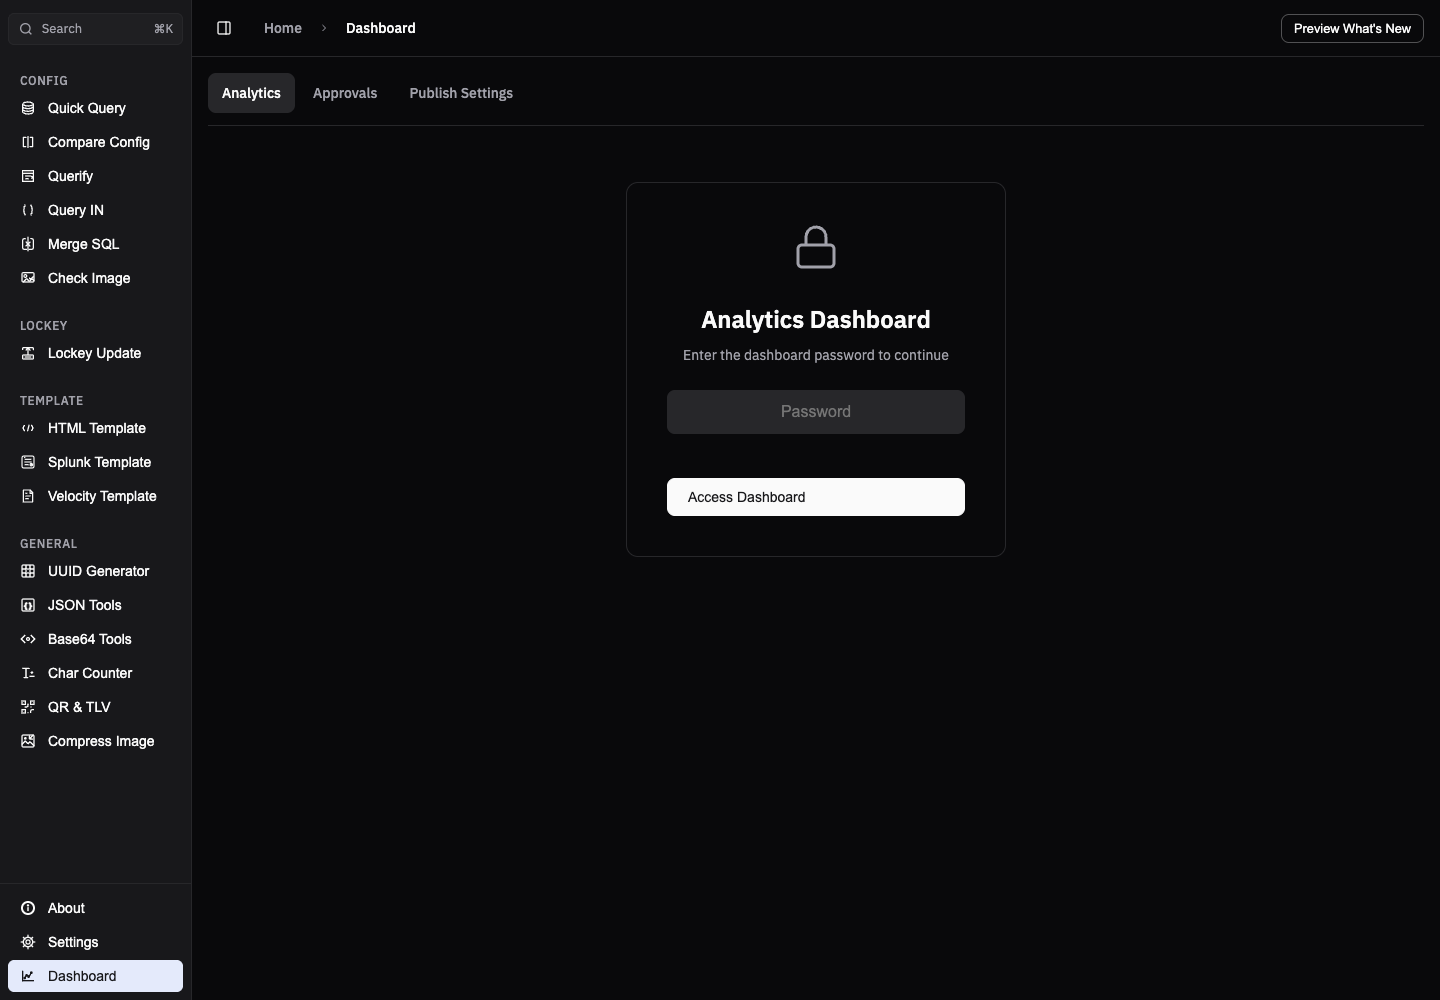
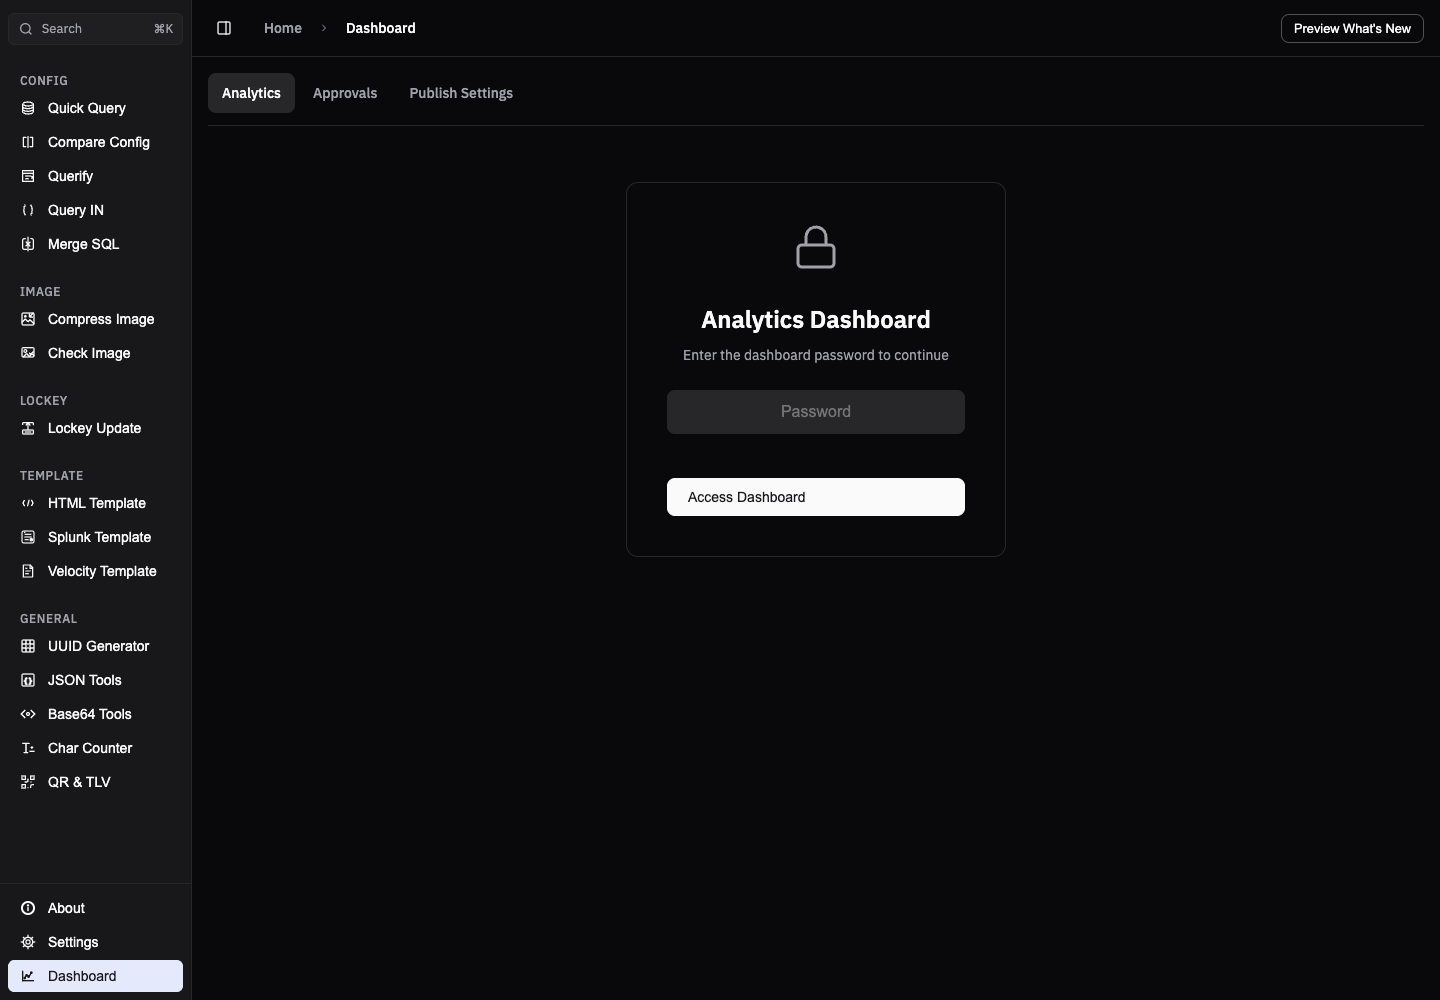
Show device attribution limits in lifetime usage reports

Changed region(s): [[0.0, 0.279, 0.125, 0.806]]

diff --git a/backend-workers/tests/dashboard-device-exclusions.test.js b/backend-workers/tests/dashboard-device-exclusions.test.js
@@ -26,14 +26,22 @@ describe("Dashboard device exclusions", () => {
   it("filters every built-in report before aggregation without dropping the user's other device", async () => {
     const sqlite = new DatabaseSync(":memory:");
     const migrations = new URL("../migrations/", import.meta.url);
-    for (const name of readdirSync(migrations).filter((name) => name.endsWith(".sql")).sort()) {
+    for (const name of readdirSync(migrations)
+      .filter((name) => name.endsWith(".sql"))
+      .sort()) {
       sqlite.exec(readFileSync(new URL(name, migrations), "utf8"));
     }
     const now = new Date().toISOString();
     // Device-level ledger rows, with no frozen baseline: both devices belong to one user.
-    sqlite.prepare("INSERT INTO tool_usage (event_id, user_email, device_id, tool_id, action, properties, source, created_time) VALUES (?, ?, ?, ?, ?, ?, ?, ?)")
+    sqlite
+      .prepare(
+        "INSERT INTO tool_usage (event_id, user_email, device_id, tool_id, action, properties, source, created_time) VALUES (?, ?, ?, ?, ?, ?, ?, ?)",
+      )
       .run("dev-use", "same@example.test", devId, "json-tools", "prettify", "{}", "client", now);
-    sqlite.prepare("INSERT INTO tool_usage (event_id, user_email, device_id, tool_id, action, properties, source, created_time) VALUES (?, ?, ?, ?, ?, ?, ?, ?)")
+    sqlite
+      .prepare(
+        "INSERT INTO tool_usage (event_id, user_email, device_id, tool_id, action, properties, source, created_time) VALUES (?, ?, ?, ?, ?, ?, ?, ?)",
+      )
       .run("real-use", "same@example.test", "real-device", "json-tools", "prettify", "{}", "client", now);
     const env = {
       ANALYTICS_DASHBOARD_PASSWORD: "testpassword123",
@@ -41,19 +49,34 @@ describe("Dashboard device exclusions", () => {
       adtools: { get: async () => null, put: async () => {}, delete: async () => {} },
     };
     try {
-      const auth = await worker.fetch(new Request("http://localhost/dashboard/verify", {
-        method: "POST", headers: { "Content-Type": "application/json" }, body: JSON.stringify({ password: "testpassword123" }),
-      }), env);
+      const auth = await worker.fetch(
+        new Request("http://localhost/dashboard/verify", {
+          method: "POST",
+          headers: { "Content-Type": "application/json" },
+          body: JSON.stringify({ password: "testpassword123" }),
+        }),
+        env,
+      );
       const { token } = await auth.json();
       const headers = { "Content-Type": "application/json", Authorization: `Bearer ${token}` };
-      const query = async (target, tabId, extra = {}) => (await worker.fetch(new Request("http://localhost/dashboard/query", {
-        method: "POST", headers, body: JSON.stringify({ tabId, range: "all", page: 1, pageSize: 1, ...extra }),
-      }), target)).json();
+      const query = async (target, tabId, extra = {}) =>
+        (
+          await worker.fetch(
+            new Request("http://localhost/dashboard/query", {
+              method: "POST",
+              headers,
+              body: JSON.stringify({ tabId, range: "all", page: 1, pageSize: 1, ...extra }),
+            }),
+            target,
+          )
+        ).json();
       const unfiltered = await query(env, "overview");
       expect(unfiltered.data.find((row) => row.metric === "Successful tool uses").value).toBe("2");
       const filteredEnv = { ...env, ANALYTICS_EXCLUDED_DEVICE_IDS: devId };
       const overview = await query(filteredEnv, "overview");
       expect(overview.data.find((row) => row.metric === "Successful tool uses").value).toBe("1");
+      const lifetime = await query(filteredEnv, "tools");
+      expect(lifetime.warning).toContain("Legacy lifetime totals");
       const daily = await query(filteredEnv, "daily");
       expect(daily.data).toHaveLength(1);
       expect(daily.pagination.hasMore).toBe(false);

diff --git a/backend-workers/src/utils/dashboardDevices.js b/backend-workers/src/utils/dashboardDevices.js
@@ -1,9 +1,25 @@
-const DEVICE_TABLES = ["device", "device_usage", "get_device_usage", "tool_usage", "usage_log", "events", "error_events", "improvement_feedback"];
+const DEVICE_TABLES = [
+  "device",
+  "device_usage",
+  "get_device_usage",
+  "tool_usage",
+  "usage_log",
+  "events",
+  "error_events",
+  "improvement_feedback",
+];
 const scopedDatabases = new WeakMap();
 
 export function scopeDashboardDevices(env) {
-  const ids = [...new Set(String(env.ANALYTICS_EXCLUDED_DEVICE_IDS || "").split(",").map((id) => id.trim()).filter(Boolean))].sort();
-  if (ids.length > 100 || ids.some((id) => id.length > 120 || /[\x00-\x1f]/.test(id))) {
+  const ids = [
+    ...new Set(
+      String(env.ANALYTICS_EXCLUDED_DEVICE_IDS || "")
+        .split(",")
+        .map((id) => id.trim())
+        .filter(Boolean),
+    ),
+  ].sort();
+  if (ids.length > 100 || ids.some((id) => id.length > 120 || Array.from(id).some((character) => character.charCodeAt(0) < 32))) {
     throw new Error("Invalid ANALYTICS_EXCLUDED_DEVICE_IDS configuration");
   }
   const scope = JSON.stringify(ids);
@@ -25,8 +41,8 @@ export function scopeDashboardDevices(env) {
           if (!/^\s*(SELECT|WITH)\b/i.test(sql)) return target.prepare(sql);
           const tables = DEVICE_TABLES.filter((table) => new RegExp(`\\b(?:FROM|JOIN)\\s+${table}\\b`, "i").test(sql));
           if (!tables.length) return target.prepare(sql);
-          const sources = tables.map((table) =>
-            `${table} AS (SELECT * FROM main.${table} WHERE device_id IS NULL OR device_id NOT IN (${excluded}))`,
+          const sources = tables.map(
+            (table) => `${table} AS (SELECT * FROM main.${table} WHERE device_id IS NULL OR device_id NOT IN (${excluded}))`,
           );
           // Outer CTEs scope both ordinary reports and reports that already have their own WITH clause.
           return target.prepare(`WITH ${sources.join(", ")} SELECT * FROM (${sql.trim().replace(/;\s*$/, "")}) AS dashboard_rows`);

diff --git a/frontend/pages/analytics-dashboard/main.js b/frontend/pages/analytics-dashboard/main.js
@@ -45,6 +45,7 @@ class AnalyticsDashboardPage {
     this.tabs = [];
     this.currentTab = null;
     this.cache = {};
+    this.reportWarnings = {};
     this.filterText = "";
     this.selectedRange = "30d";
     this.currentWhoSection = "users";
@@ -347,6 +348,8 @@ class AnalyticsDashboardPage {
     this.currentTab = "__reports";
     this.updateNavigation();
     const panel = this.container.querySelector("#dashboard-panel");
+    const warning = panel.querySelector(".dashboard-report-warning");
+    if (warning) warning.hidden = true;
     panel.querySelector(".panel-loading").style.display = "none";
     const content = panel.querySelector(".panel-content");
     content.innerHTML = `<div class="report-library">
@@ -453,6 +456,11 @@ class AnalyticsDashboardPage {
     if (!panel || !content) return;
 
     const tabId = this.currentTab;
+    const warning = panel.querySelector(".dashboard-report-warning");
+    if (warning) {
+      warning.textContent = this.reportWarnings[tabId] || "";
+      warning.hidden = !warning.textContent;
+    }
     const paginated = this.isPaginatedTab(tabId);
     const paginationState = paginated ? this.pagination[tabId] : null;
     if (append && paginationState?.loading) return;
@@ -504,6 +512,11 @@ class AnalyticsDashboardPage {
       if (!this.isDataRequestCurrent(requestId, tabId, content)) return;
 
       if (data.ok && Array.isArray(data.data)) {
+        this.reportWarnings[tabId] = typeof data.warning === "string" ? data.warning : "";
+        if (warning) {
+          warning.textContent = this.reportWarnings[tabId];
+          warning.hidden = !warning.textContent;
+        }
         if (paginated) {
           const pageResult = {
             data: data.data,

diff --git a/backend-workers/src/routes/dashboard.js b/backend-workers/src/routes/dashboard.js
@@ -2163,7 +2163,14 @@ FROM (
 )
 ORDER BY tool_total DESC, tool_id, row_type, total_count DESC`;
     const result = await env.DB.prepare(query).all();
-    const body = JSON.stringify({ ok: true, data: result.results || [], mode: "computed-tools" });
+    const body = JSON.stringify({
+      ok: true,
+      data: result.results || [],
+      mode: "computed-tools",
+      ...(env.dashboardDeviceScope && env.dashboardDeviceScope !== "[]"
+        ? { warning: "Legacy lifetime totals have no device attribution and may still include excluded devices. Recent device-level usage is filtered." }
+        : {}),
+    });
     setCachedDashboardQueryBody(env, cacheKey, body);
 
     return new Response(body, {

diff --git a/frontend/pages/analytics-dashboard/template.js b/frontend/pages/analytics-dashboard/template.js
@@ -59,6 +59,7 @@ export const AnalyticsDashboardTemplate = /*html*/ `
       <!-- Single Panel for dynamic content -->
       <div class="dashboard-panels">
         <div class="dashboard-panel active" id="dashboard-panel">
+          <p class="table-info dashboard-report-warning" role="status" hidden></p>
           <div class="panel-loading" role="status">Loading…</div>
           <div class="panel-content"></div>
         </div>

diff --git a/docs/testing/dashboard-production-api.md b/docs/testing/dashboard-production-api.md
@@ -61,3 +61,30 @@ DASHBOARD_TEST_URL=http://localhost:1246 EXPECT_PRODUCTION_API=true \
 The browser script intercepts API calls, exercises all three password gates, section navigation, legacy bookmarks, Settings entry removal,
 and horizontal overflow at 1440px and 390px. It records API request URLs, screenshots, and `result.json` in `docs/verification/dashboard/`.
 It uses Chrome and does not establish native Tauri/WebKit runtime behavior or authenticated production correctness.
+
+## Excluding the development device from Dashboard history
+
+`ANALYTICS_EXCLUDED_DEVICE_IDS` in `wrangler.toml` lists exact, comma-separated device IDs excluded from the admin Dashboard. The default and
+production configurations include `6028654b-b517-4d2f-8239-3f466f77f123`. Deploy the Worker configuration and code for this to affect production.
+No database migration or record deletion is required.
+
+The exclusion applies to device-attributed source rows before built-in report aggregation, person views, search, and pagination. Other devices
+belonging to the same email remain visible. Cached and in-flight results are separated by exclusion policy, so changing the configured IDs
+cannot reuse an unfiltered report. Stored telemetry remains intact. This filter is scoped to the admin Dashboard; it does not change registration
+or the Home usage overview.
+
+The frozen `lifetime_usage_baseline` table stores totals by email/tool/action, without device IDs. Those legacy totals cannot be split reliably
+by device. The lifetime report displays a note that its old baseline may still contain excluded-device usage; identifiable ledger rows are
+filtered. Date-ranged reports use device-attributed rows and exclude the configured device normally.
+
+Verification:
+
+```bash
+./node_modules/.bin/vitest run backend-workers/tests/dashboard-device-exclusions.test.js \
+  backend-workers/tests/dashboard-tabs-smoke.test.js backend-workers/tests/dashboard-performance.test.js \
+  backend-workers/tests/dashboard-person.test.js
+```
+
+The Worker integration test uses a migrated in-memory database and the real authenticated report handlers. It verifies before/after totals,
+all built-in reports, pagination, the person view, preservation of another device for the same email, cache separation, and unchanged raw rows.
+The browser script also checks that dev telemetry is neither collected nor sent, and captures the lifetime-report note at desktop and mobile widths.
